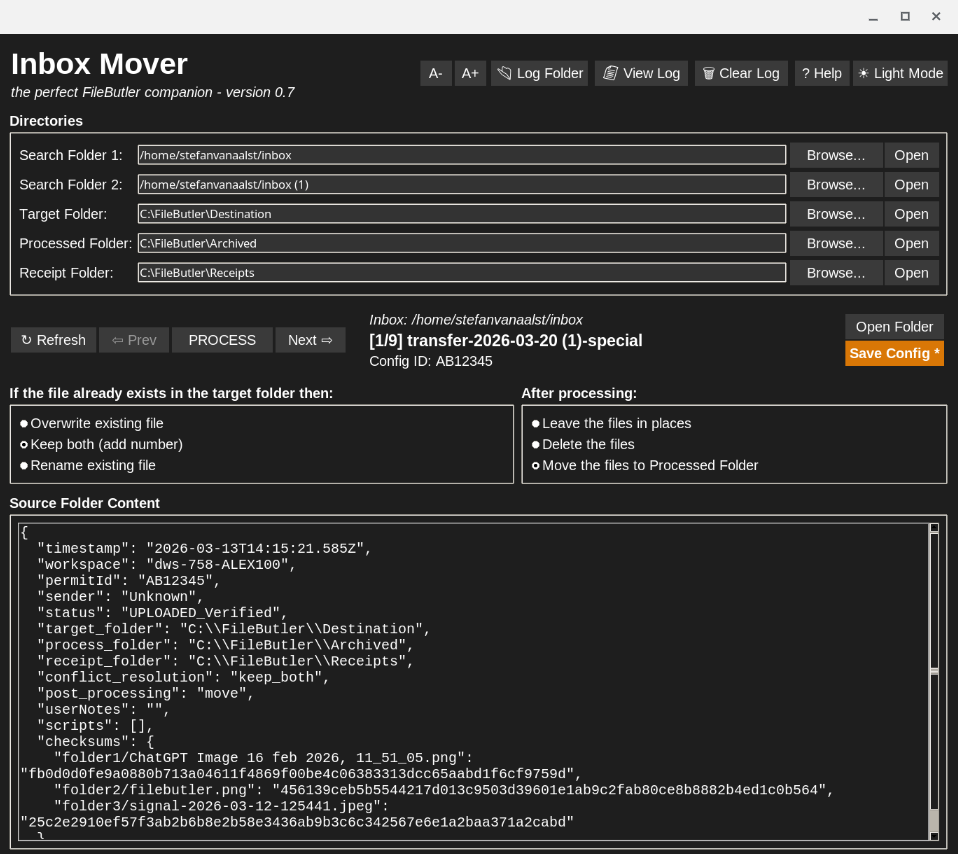
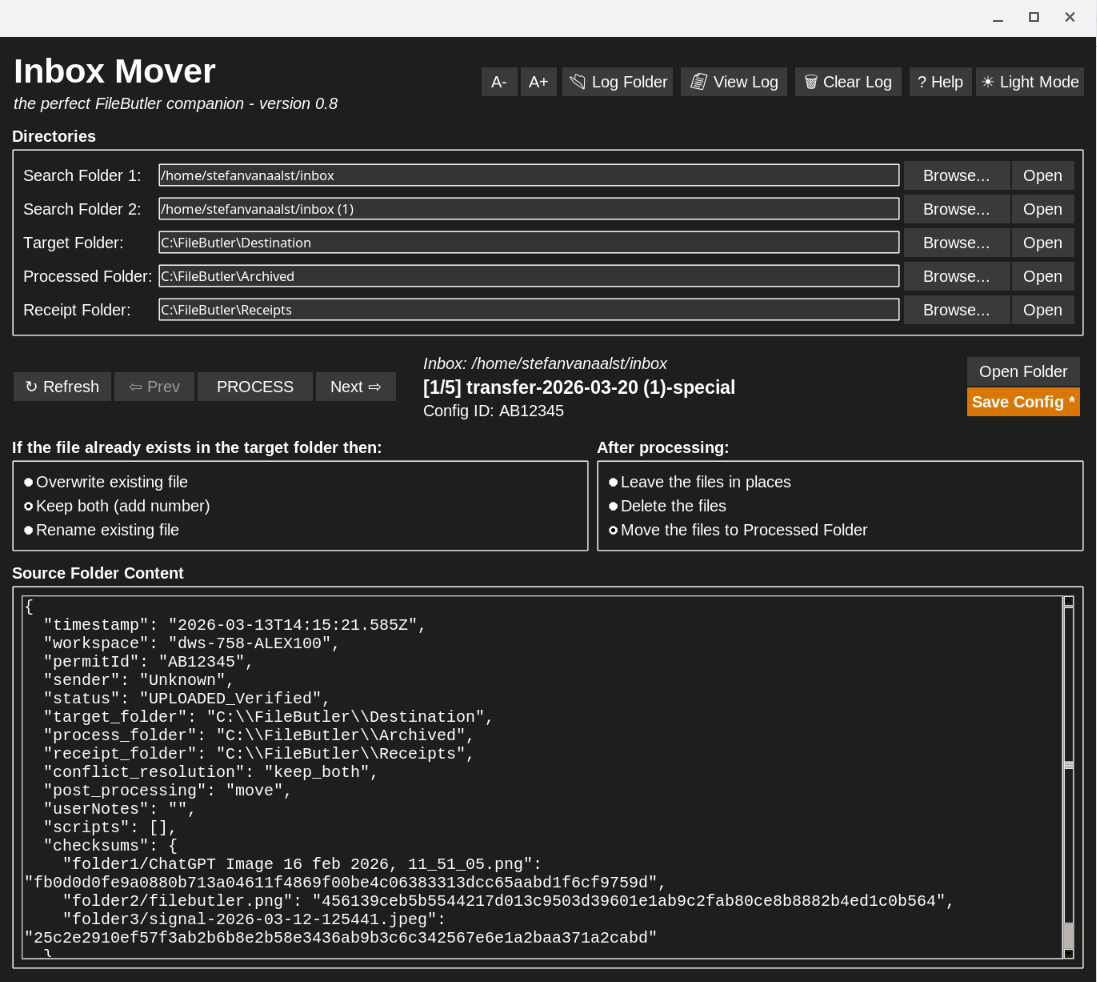
Add files via upload

Changed region(s): [[0.0, 0.0304, 1.0, 1.0], [0.4541, 0.0609, 0.8173, 0.0913], [0.9384, 0.0, 0.9687, 0.0304]]

diff --git a/inbox_mover.py b/inbox_mover.py
@@ -1,6 +1,6 @@
 #!/usr/bin/env python3
 """
-Inbox Mover v0.7
+Inbox Mover v0.8
 the perfect FileButler companion
 A utility to process and extract zip files containing a receipt.json,
 with both a Material-inspired GUI and a CLI mode.
@@ -16,12 +16,13 @@ import datetime
 import argparse
 import threading
 import subprocess
+import getpass
 
 # Tkinter imports
 import tkinter as tk
 from tkinter import ttk, filedialog, messagebox
 
-VERSION = "0.7"
+VERSION = "0.8"
 CONFIG_DIR = "permit_configs"
 
 # --------------------------------------------------------------------------- #
@@ -179,6 +180,7 @@ class InboxMoverCore:
         """Write a structured JSON log entry."""
         log_entry = {
             "timestamp": datetime.datetime.now().isoformat(),
+            "user": getpass.getuser(),
             "status": status,
             "folder_name": folder_data.get('folder_name', 'Unknown'),
             "config_id": folder_data.get('permitId', 'Unknown'),
@@ -733,12 +735,13 @@ class InboxMoverGUI:
                     try:
                         entry = json.loads(line)
                         ts = entry.get("timestamp", "").replace("T", " ")[:19]
+                        user = entry.get("user", "Unknown")
                         status = entry.get("status", "UNKNOWN")
                         folder = entry.get("folder_name", "")
                         cfg = entry.get("config_id", "")
                         msg = entry.get("message", "")
                         
-                        head_str = f"[{ts}] {status} | Config: {cfg} | Folder: {folder}\n"
+                        head_str = f"[{ts}] {status} | User: {user} | Config: {cfg} | Folder: {folder}\n"
                         status_tag = "success" if status == "SUCCESS" else ("error" if status == "ERROR" else "header")
                         text_widget.insert(tk.END, head_str, status_tag)
                         

diff --git a/Test Plan.md b/Test Plan.md
@@ -1,4 +1,4 @@
-# **Inbox Mover \- Comprehensive Test Plan (v0.7)**
+# **Inbox Mover \- Comprehensive Test Plan (v0.8)**
 
 ## **1\. Introduction**
 
@@ -47,7 +47,7 @@ Before beginning the tests, set up the following directory structure and dummy f
 
 | Test ID | Action | Expected Result | Status |
 | :---- | :---- | :---- | :---- |
-| UI-01 | Launch inbox\_mover.py | App opens with default size (800x650), Dark Mode enabled. Version reads 0.7. |  |
+| UI-01 | Launch inbox\_mover.py | App opens with default size (800x650), Dark Mode enabled. Version reads 0.8. |  |
 | UI-02 | Click "Toggle Light Mode" | UI switches to a light color palette. Text remains readable. |  |
 | UI-03 | Click "A+" and "A-" buttons | Font size of all labels, buttons, and text areas increases/decreases. |  |
 | UI-04 | Click "? Help" | Help window opens displaying instructions including Section 6 for Advanced Features. |  |
@@ -131,7 +131,7 @@ Before beginning the tests, set up the following directory structure and dummy f
 
 | Test ID | Command / Action | Expected Result | Status |
 | :---- | :---- | :---- | :---- |
-| CLI-01 | python inbox\_mover.py \--cli \--help | Displays help menu with all available arguments, confirming v0.7. |  |
+| CLI-01 | python inbox\_mover.py \--cli \--help | Displays help menu with all available arguments, confirming v0.8. |  |
 | CLI-02 | python inbox\_mover.py \--cli \-s "C:\\Test\\Search1" \-t "C:\\Test\\Target" | Scans Search1. Processes folders. Output shows folder names, Config IDs, and success/skip statuses. |  |
 | CLI-03 | Ensure transfer-04-overrides is in Search1. Run the command from CLI-02. | The CLI outputs that it processed transfer-04. It respects the target\_folder and post\_processing values extracted from its internal receipt.json, ignoring the \-t argument. View log to confirm the run was recorded. |  |
 

diff --git a/README.md b/README.md
@@ -1,12 +1,10 @@
-# **Inbox Mover \- the perfect FileButler companion (v0.7)**
+# **Inbox Mover \- the perfect FileButler companion (v0.8)**
 
-**Inbox Mover** is a cross-platform utility designed to process files in the *transfer-* folders found on i: and z:\inbox on [**myDRE**](https://mydre.org). 
+**Inbox Mover** is a cross-platform utility designed to process files in the **transfer-** folders found in **i:** and **z:\\inbox** on [**myDRE**](https://www.google.com/search?q=https://mydre.org)**.** 
 
 **Inbox Mover** processes the files into a designated target folder while automatically resolving file conflicts based on your preferences. Zip-files will be automatically extracted. It features both a user-friendly Material-inspired graphical interface (GUI) and a Command-Line Interface (CLI) for automation.
 
-**Inbox Mover** is optimized to use the *receipt.json* in **myDRE FileButler**.
-
-![Screenshot Inbox Mover](./FileButler.png)
+**Inbox Mover** is optimized to use the **receipt.json** in **myDRE FileButler.**
 
 ## **🛠 Prerequisites**
 
@@ -16,7 +14,7 @@ To run Inbox Mover, you need **Python 3** installed on your system. The applicat
 
 #### **On Windows**
 
-1. Go to the official Python website: [python.org/downloads](https://www.python.org/downloads/)  
+1. Go to the official Python website: [python.org/downloads](https://www.google.com/search?q=https://www.python.org/downloads/)  
 2. Download the latest Python 3 installer for Windows.  
 3. Run the installer.  
 4. **⚠ CRITICAL STEP:** At the bottom of the installer window, ensure you check the box that says **"Add Python to PATH"** before clicking "Install Now".  
